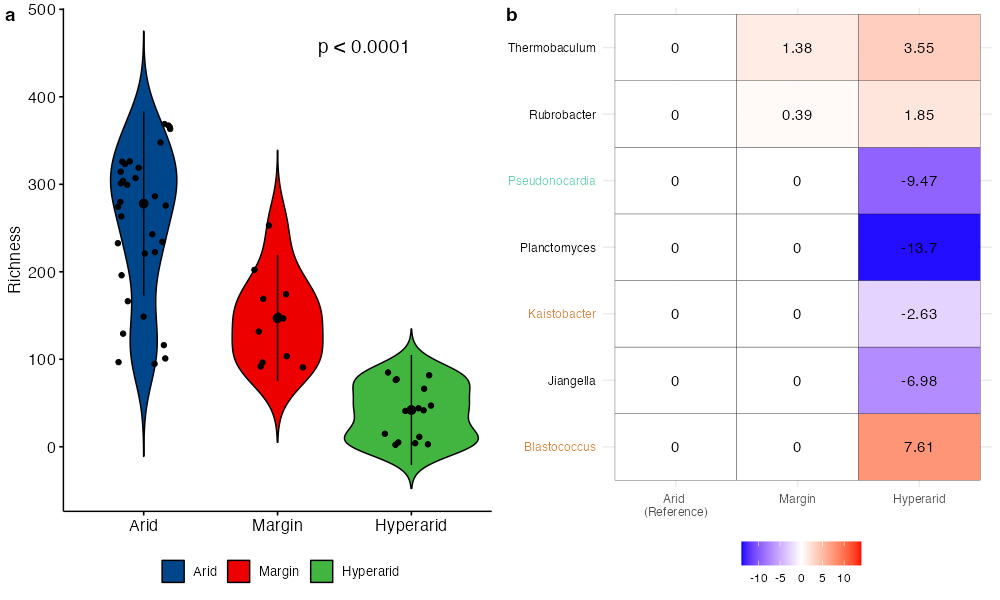
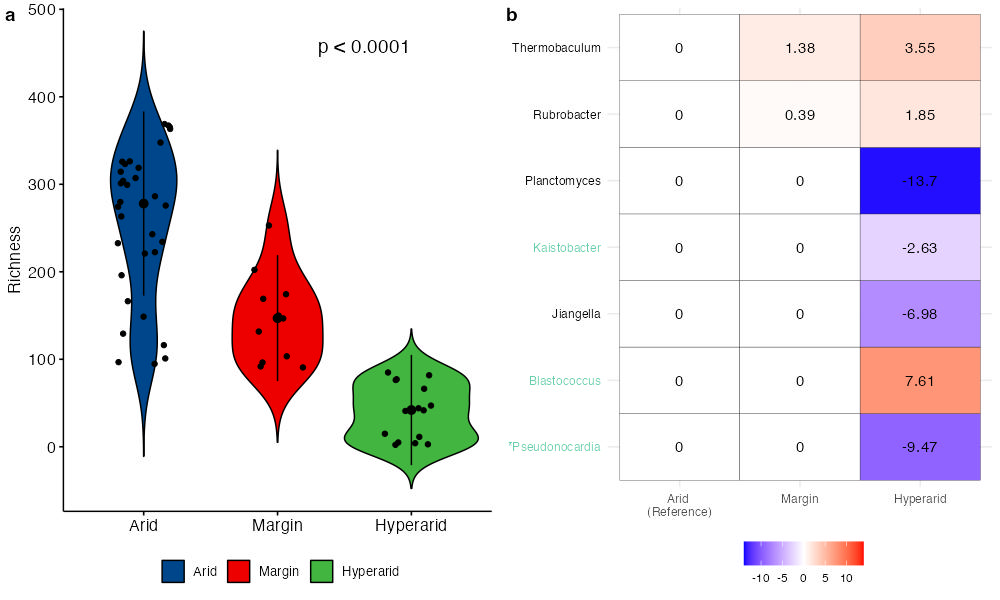
change the color code of figures in real data analysis

diff --git a/code/qiita11546.html b/code/qiita11546.html
@@ -10,7 +10,7 @@
 
 
 
-<meta name="date" content="2023-07-06" />
+<meta name="date" content="2023-07-19" />
 
 <title>Real Data Applications: QIITA 11546</title>
 
@@ -356,7 +356,7 @@ display: none;
 
 
 <h1 class="title toc-ignore">Real Data Applications: QIITA 11546</h1>
-<h4 class="date">July 06, 2023</h4>
+<h4 class="date">July 19, 2023</h4>
 
 </div>
 
@@ -377,6 +377,25 @@ information</a></li>
 </ul>
 </div>
 
+<pre class="r"><code>knitr::opts_chunk$set(echo = TRUE, warning = FALSE, 
+                      message = FALSE, comment = NA,
+                      fig.width = 6.25, fig.height = 5)
+options(qwraps2_markup = &quot;markdown&quot;,
+        qwraps2_frmt_digits = 2)
+
+library(biomformat)
+library(tidyverse)
+library(mia)
+library(ANCOMBC)
+library(magrittr)
+library(qwraps2)
+library(ggsci)
+library(ggpubr)
+library(DT)
+options(DT.options = list(
+  initComplete = JS(&quot;function(settings, json) {&quot;,
+  &quot;$(this.api().table().header()).css({&#39;background-color&#39;: 
+  &#39;#000&#39;, &#39;color&#39;: &#39;#fff&#39;});&quot;,&quot;}&quot;)))</code></pre>
 <div id="data-import" class="section level1">
 <h1>Data import</h1>
 <pre class="r"><code># Metadata
@@ -703,26 +722,28 @@ df_fig2 = res_pair %&gt;%
              p_surgery_typecolectomy &lt; 0.05 |
              p_surgery_typecolectomy_surgery_typeileocolonic &lt; 0.05) %&gt;%
   transmute(species,
-            lfc1 = case_when(
-              q_surgery_typeileocolonic &lt; 0.05 &amp; passed_ss_surgery_typeileocolonic == TRUE ~ &quot;aquamarine3&quot;,
-              q_surgery_typeileocolonic &lt; 0.05 &amp; passed_ss_surgery_typeileocolonic == FALSE ~ &quot;tan3&quot;,
-              TRUE ~ &quot;black&quot;
-            ),
-            lfc2 = case_when(
-              q_surgery_typecolectomy &lt; 0.05 &amp; passed_ss_surgery_typecolectomy == TRUE ~ &quot;aquamarine3&quot;,
-              q_surgery_typecolectomy &lt; 0.05 &amp; passed_ss_surgery_typecolectomy == FALSE ~ &quot;tan3&quot;,
-              TRUE ~ &quot;black&quot;
-            ),
-            lfc3 = case_when(
-              q_surgery_typecolectomy_surgery_typeileocolonic &lt; 0.05 &amp; passed_ss_surgery_typecolectomy_surgery_typeileocolonic == TRUE ~ &quot;aquamarine3&quot;,
-              q_surgery_typecolectomy_surgery_typeileocolonic &lt; 0.05 &amp; passed_ss_surgery_typecolectomy_surgery_typeileocolonic == FALSE ~ &quot;tan3&quot;,
-              TRUE ~ &quot;black&quot;
-            )) %&gt;%
+            lfc1 = ifelse(q_surgery_typeileocolonic &lt; 0.05, &quot;aquamarine3&quot;, &quot;black&quot;),
+            lfc2 = ifelse(q_surgery_typecolectomy &lt; 0.05, &quot;aquamarine3&quot;, &quot;black&quot;),
+            lfc3 = ifelse(q_surgery_typecolectomy_surgery_typeileocolonic &lt; 0.05, &quot;aquamarine3&quot;, &quot;black&quot;)) %&gt;%
   pivot_longer(lfc1:lfc3, names_to = &quot;group&quot;, values_to = &quot;color&quot;) %&gt;%
   arrange(species)
 
+df_fig3 = res_pair %&gt;%
+  filter(p_surgery_typeileocolonic &lt; 0.05 | 
+             p_surgery_typecolectomy &lt; 0.05 |
+             p_surgery_typecolectomy_surgery_typeileocolonic &lt; 0.05) %&gt;%
+  transmute(species,
+            lfc1 = ifelse(passed_ss_surgery_typeileocolonic == TRUE, &quot;yes&quot;, &quot;no&quot;),
+            lfc2 = ifelse(passed_ss_surgery_typecolectomy == TRUE, &quot;yes&quot;, &quot;no&quot;),
+            lfc3 = ifelse(passed_ss_surgery_typecolectomy_surgery_typeileocolonic == TRUE, &quot;yes&quot;, &quot;no&quot;)) %&gt;%
+  pivot_longer(lfc1:lfc3, names_to = &quot;group&quot;, values_to = &quot;asterisk&quot;) %&gt;%
+  arrange(species)
+
 df_fig = df_fig1 %&gt;%
-  dplyr::left_join(df_fig2, by = c(&quot;species&quot;, &quot;group&quot;))
+  dplyr::left_join(df_fig2, by = c(&quot;species&quot;, &quot;group&quot;)) %&gt;%
+  dplyr::left_join(df_fig3, by = c(&quot;species&quot;, &quot;group&quot;)) %&gt;%
+  dplyr::mutate(txt = ifelse(color == &quot;aquamarine3&quot; &amp; asterisk == &quot;yes&quot;,
+                             paste0(&quot;*&quot;, value), value))
 
 df_fig$group = recode(df_fig$group, 
                       `lfc1` = &quot;Ileocolonic - None&quot;,
@@ -739,7 +760,7 @@ fig_heat_pair = df_fig %&gt;%
   scale_fill_gradient2(low = &quot;blue&quot;, high = &quot;red&quot;, mid = &quot;white&quot;, 
                        na.value = &quot;white&quot;, midpoint = 0, limit = c(-6, 6),
                        name = NULL) +
-  geom_text(aes(group, species, label = value, color = color), size = 4) +
+  geom_text(aes(group, species, label = txt, color = color), size = 4) +
   scale_color_identity(guide = FALSE) +
   labs(x = NULL, y = NULL, title = NULL) +
   theme_minimal() +

diff --git a/code/qiita10360.html b/code/qiita10360.html
@@ -10,7 +10,7 @@
 
 
 
-<meta name="date" content="2023-07-07" />
+<meta name="date" content="2023-07-19" />
 
 <title>Real Data Applications: QIITA 10360</title>
 
@@ -356,7 +356,7 @@ display: none;
 
 
 <h1 class="title toc-ignore">Real Data Applications: QIITA 10360</h1>
-<h4 class="date">July 07, 2023</h4>
+<h4 class="date">July 19, 2023</h4>
 
 </div>
 
@@ -386,6 +386,32 @@ information</a></li>
 </ul>
 </div>
 
+<pre class="r"><code>knitr::opts_chunk$set(echo = TRUE, warning = FALSE, 
+                      message = FALSE, comment = NA,
+                      fig.width = 6.25, fig.height = 5)
+options(qwraps2_markup = &quot;markdown&quot;,
+        qwraps2_frmt_digits = 2)
+
+library(biomformat)
+library(openxlsx)
+library(tidyverse)
+library(mia)
+library(ANCOMBC)
+library(magrittr)
+library(qwraps2)
+library(ggsci)
+library(ggpubr)
+library(DT)
+options(DT.options = list(
+  initComplete = JS(&quot;function(settings, json) {&quot;,
+  &quot;$(this.api().table().header()).css({&#39;background-color&#39;: 
+  &#39;#000&#39;, &#39;color&#39;: &#39;#fff&#39;});&quot;,&quot;}&quot;)))
+
+get_upper_tri = function(cormat){
+    cormat[lower.tri(cormat)] = NA
+    diag(cormat) = NA
+    return(cormat)
+}</code></pre>
 <div id="data-import" class="section level1">
 <h1>Data import</h1>
 <pre class="r"><code># Metadata
@@ -774,15 +800,12 @@ res_trend = output$res_trend %&gt;%
 <h2>Trend test</h2>
 <pre class="r"><code>df_fig = res_trend %&gt;%
   dplyr::filter(p_val &lt; 0.05) %&gt;%
-  transmute(genus, lfc1 = 0, 
+  transmute(genus = ifelse(q_val &lt; 0.05 &amp; passed_ss == TRUE, paste0(&quot;*&quot;, genus), genus), 
+            lfc1 = 0, 
             lfc2 = round(lfc_aridityMargin, 2), 
             lfc3 = round(lfc_aridityHyperarid, 2),
             p_val, q_val, passed_ss, 
-            color = case_when(
-              q_val &lt; 0.05 &amp; passed_ss == TRUE ~ &quot;aquamarine3&quot;,
-              q_val &lt; 0.05 &amp; passed_ss == FALSE ~ &quot;tan3&quot;,
-              TRUE ~ &quot;black&quot;
-            )) %&gt;%
+            color = ifelse(q_val &lt; 0.05, &quot;aquamarine3&quot;, &quot;black&quot;)) %&gt;%
   pivot_longer(lfc1:lfc3, names_to = &quot;group&quot;, values_to = &quot;value&quot;) %&gt;%
   arrange(genus)
 df_fig$group = recode(df_fig$group, 
